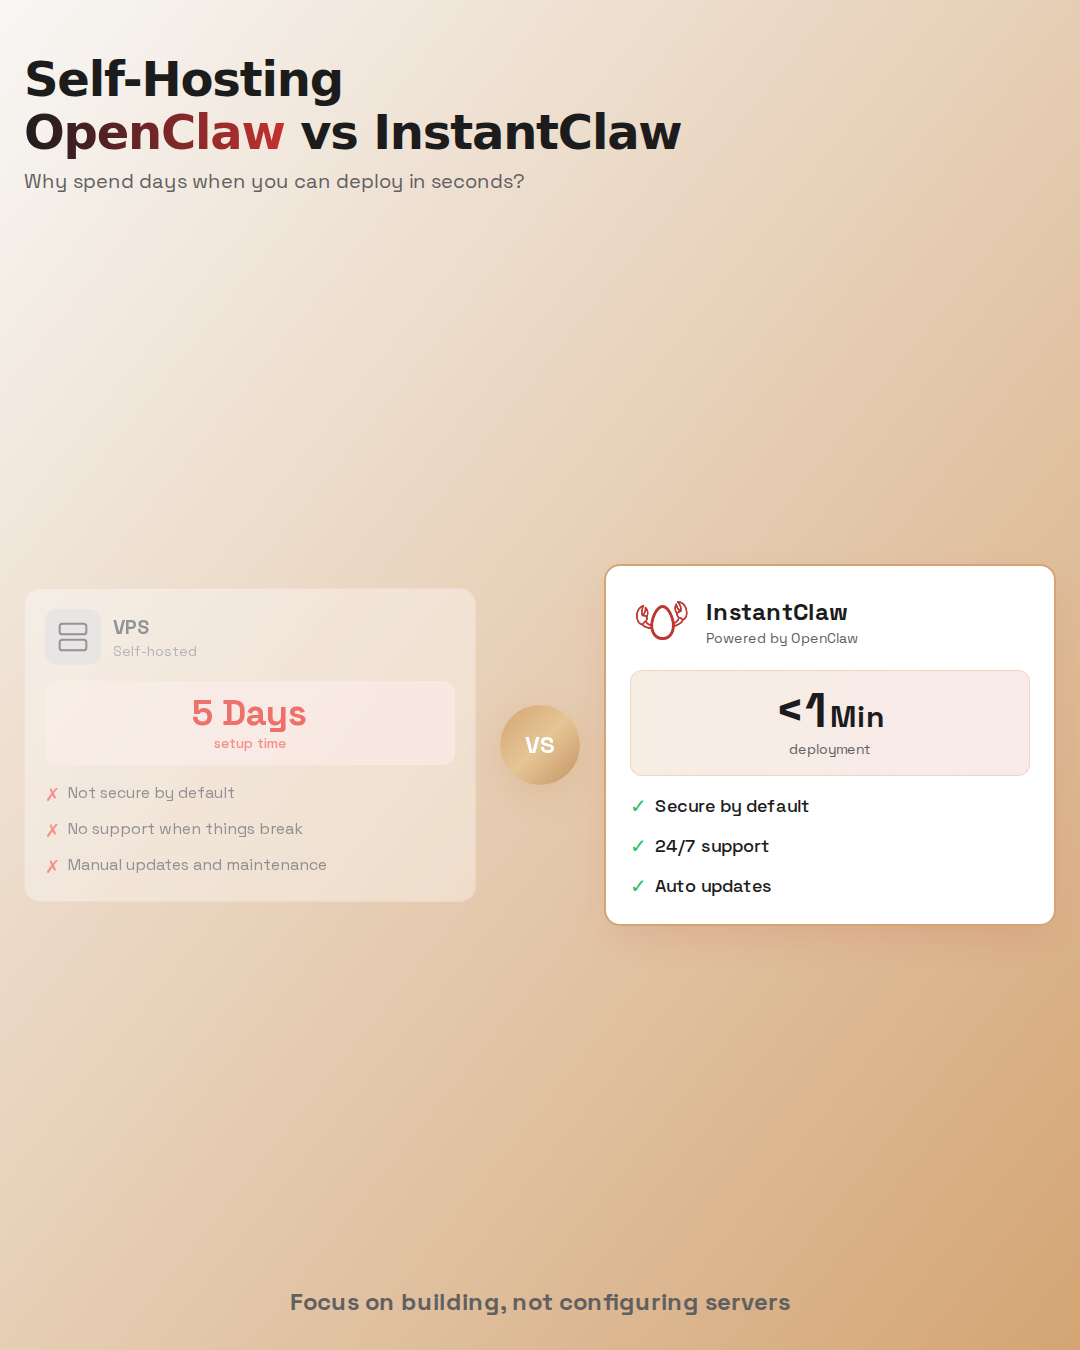
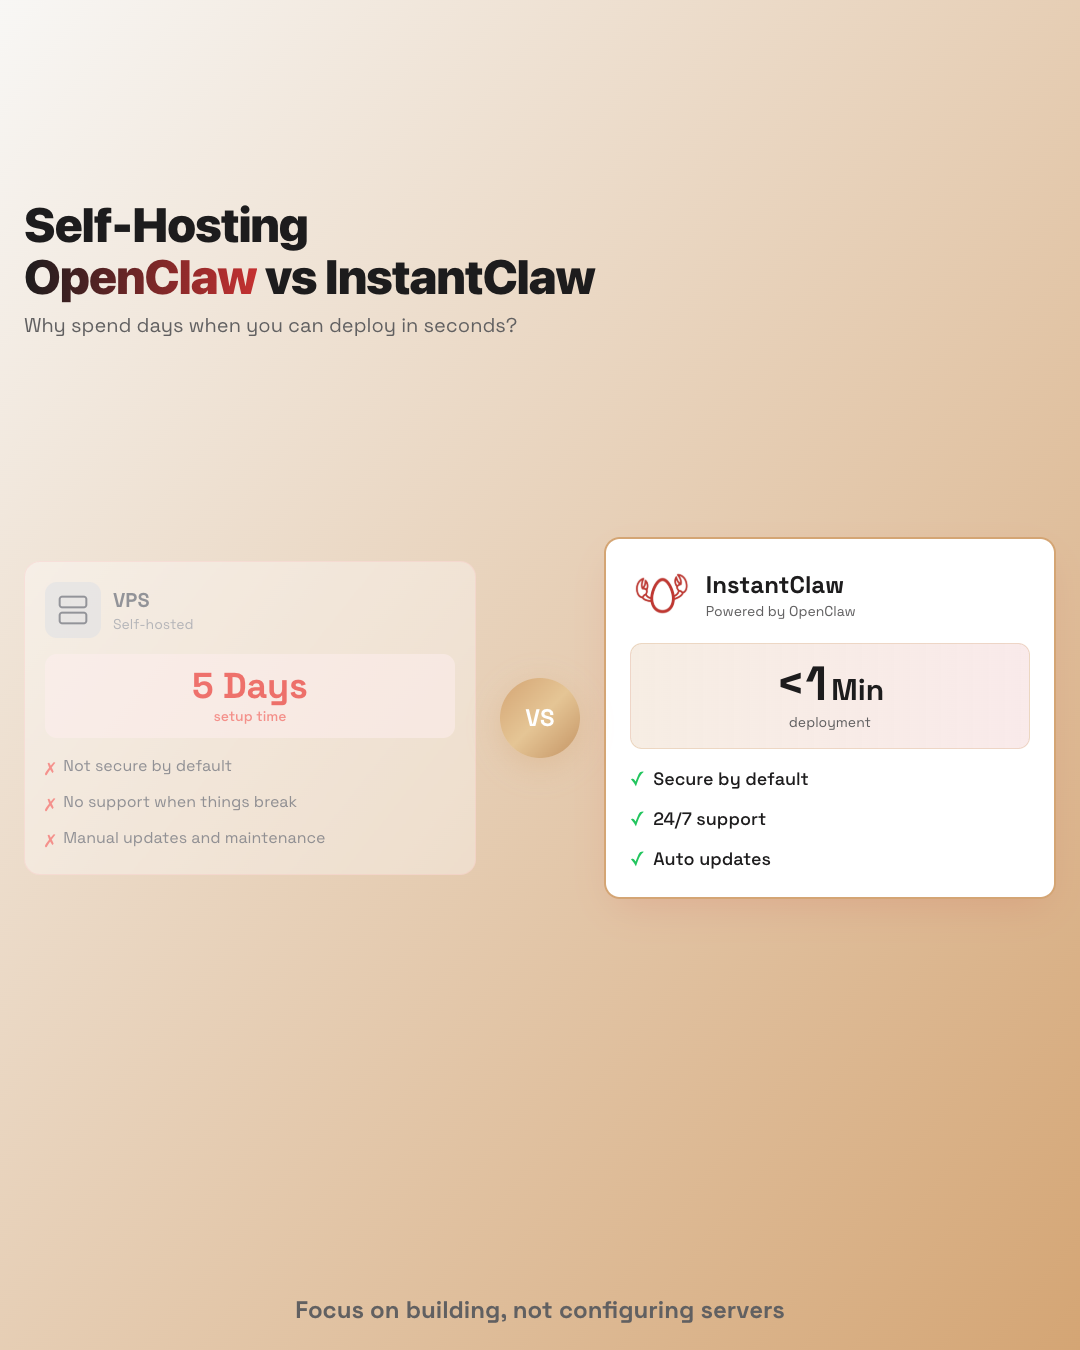
Fixed headline alignement in slide 02

diff --git a/pages/slide-02-vps.js b/pages/slide-02-vps.js
@@ -6,10 +6,10 @@ const spaceGrotesk = Space_Grotesk({ subsets: ['latin'], display: 'swap' });
 // Slide 2: VPS vs InstantClaw - Asymmetrical Layout
 const Slide02VPS = () => {
   return (
-    <div className={`${spaceGrotesk.className} min-h-screen w-full flex flex-col bg-gradient-to-br from-[#F8F7F5] to-[#D4A574] p-6 font-sans antialiased`}>
+    <div className={`${spaceGrotesk.className} min-h-screen w-full flex flex-col bg-gradient-to-br from-[#F8F7F5] to-[#D4A574] px-6 font-sans antialiased`}>
       
-      {/* TOP SECTION: Headline - centered vertically in top area */}
-      <div className="h-[200px] flex flex-col justify-center">
+      {/* TOP: Headline centered vertically in the space above the cards */}
+      <div className="flex-1 flex flex-col justify-center">
         <h1 className="font-sans text-5xl font-black tracking-tight text-[#1D1C1D] leading-[1.1]">
           Self-Hosting<br/>
           <span className="bg-gradient-to-r from-[#1D1C1D] via-[#c53131] via-[#D4A574] to-[#1D1C1D] bg-clip-text text-transparent bg-[length:200%_auto]">OpenClaw</span> vs InstantClaw
@@ -17,8 +17,8 @@ const Slide02VPS = () => {
         <p className="text-xl text-[#616061] mt-2">Why spend days when you can deploy in seconds?</p>
       </div>
 
-      {/* MIDDLE SECTION: Asymmetrical Content - VPS Left, VS Center, InstantClaw Right */}
-      <div className="flex-1 flex items-center gap-6">
+      {/* CENTER: Cards at natural height — centered on page by equal flex-1 above and below */}
+      <div className="flex items-center gap-6">
         {/* VPS - Left Side (Faded, smaller) */}
         <div className="w-[45%] bg-white/50 backdrop-blur-sm rounded-2xl p-5 border border-red-200/50 opacity-70">
           <div className="flex items-center gap-3 mb-4">
@@ -104,8 +104,8 @@ const Slide02VPS = () => {
         </div>
       </div>
 
-      {/* BOTTOM SECTION: Tagline */}
-      <div className="h-[60px] flex items-end justify-center pb-2">
+      {/* BOTTOM: Tagline at the bottom of the remaining space */}
+      <div className="flex-1 flex items-end justify-center pb-6">
         <p className="text-2xl text-[#616061] font-bold">
           Focus on building, not configuring servers
         </p>

diff --git a/screenshot-slide-02-vps.js b/screenshot-slide-02-vps.js
@@ -1,0 +1,16 @@
+const puppeteer = require('puppeteer');
+const path = require('path');
+
+(async () => {
+  const browser = await puppeteer.launch({ headless: true });
+  const page = await browser.newPage();
+  await page.setViewport({ width: 1080, height: 1350 });
+  await page.goto('http://localhost:3456/slide-02-vps', { waitUntil: 'networkidle0' });
+  await new Promise(r => setTimeout(r, 2000));
+
+  const outputPath = path.join(__dirname, 'post1-revamped', 'slide-02-vps.png');
+  await page.screenshot({ path: outputPath });
+
+  await browser.close();
+  console.log(`Screenshot saved to ${outputPath}`);
+})();
